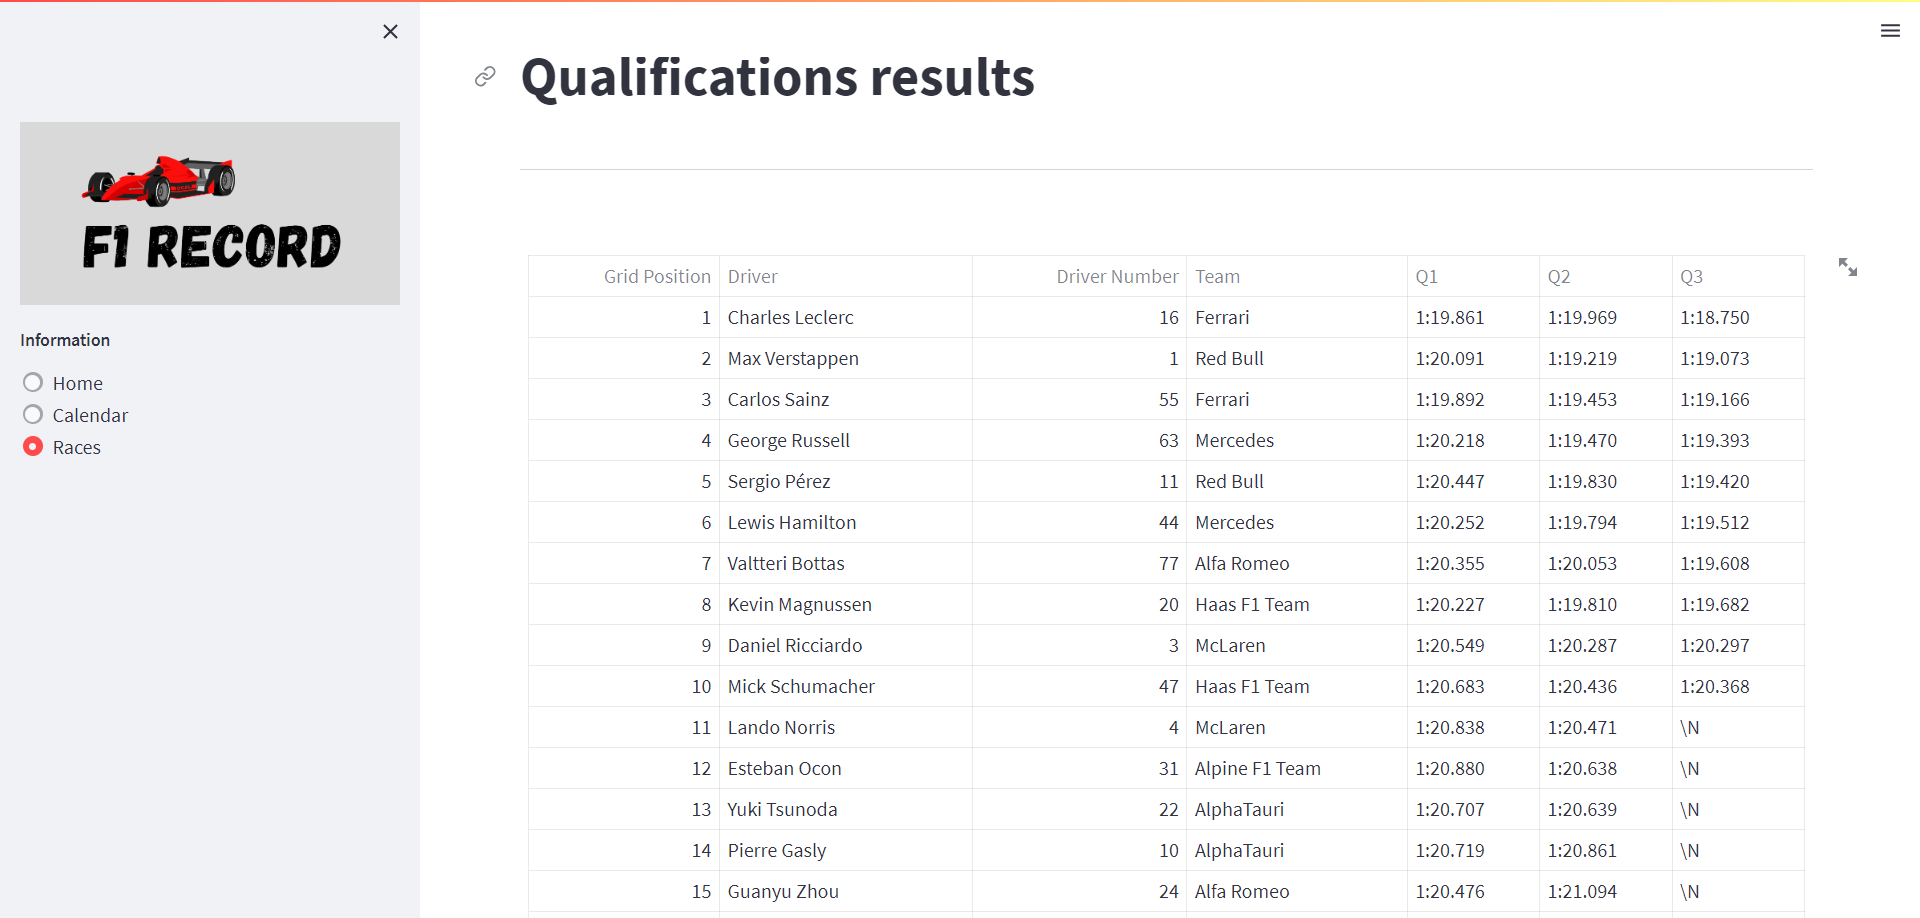
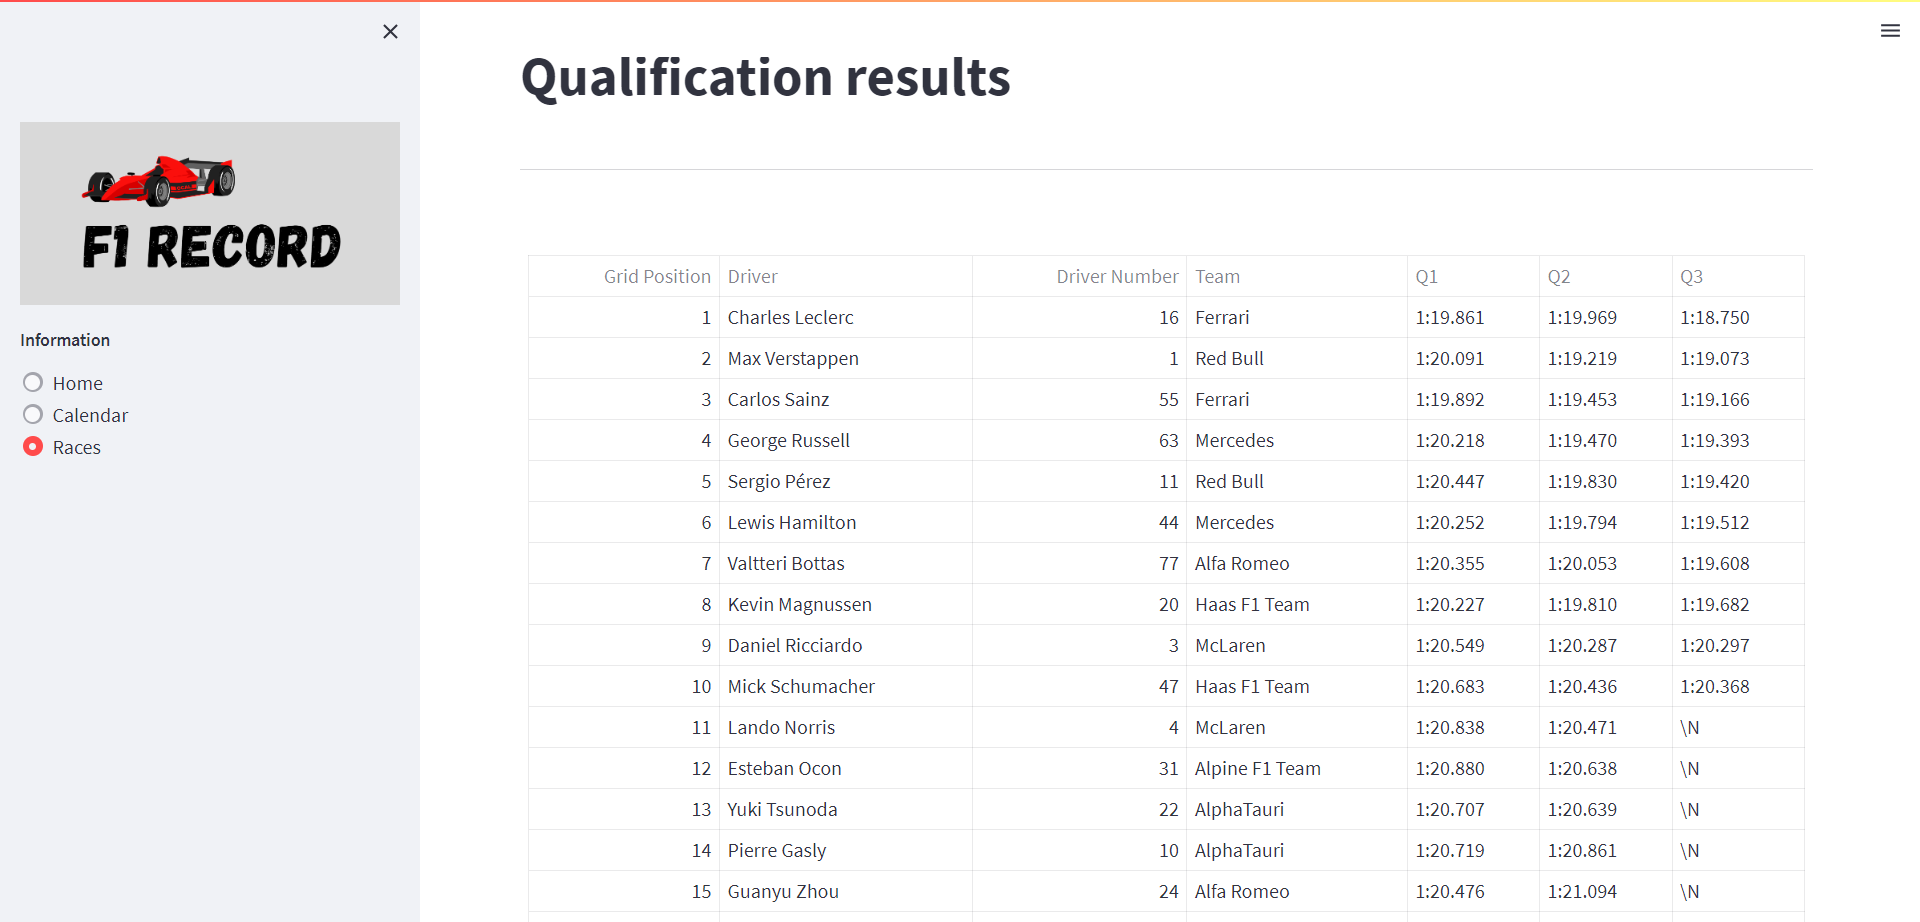
update

diff --git a/streamlit/main.py b/streamlit/main.py
@@ -99,7 +99,7 @@ def show_races():
 
         st.write('')
         st.write('---')
-        st.title('Qualifications results')
+        st.title('Qualification results')
         st.write('---')
         st.write('')
 

diff --git a/README.md b/README.md
@@ -13,6 +13,7 @@
 7. [Desarrollo de la Página Web](#página)
 8. [Modelo de Aprendizaje](#modelo)
 9. [Conclusiones](#conclusiones)
+10. [Enlaces](#enlaces)
 
 <a name="descripción"/>
 
@@ -223,7 +224,7 @@ Todas las consultas se realizan mediante SQLAlchemy y se limitan a mostrar los p
 
 El objetivo de nuestro EDA es representar gráfica y visualmente los datos que hemos descubierto mediante un análisis y representar y explicar cada uno de ellos. Nos encargaremos de visualizar la distribución de variables clave en nuestro conjunto de datos, examinar cómo han evolucionado ciertas métricas a lo largo de las temporadas de la Fórmula 1, investigar los desempeños de pilotos y equipos a lo largo del tiempo, realizar comparaciones entre diferentes pilotos o equipos y comparar diferentes épocas en la Fórmula 1.
 
-### Dashboard de EDA
+### Dashboard
 
 A continuación, observamos el siguiente dashboard que hemos realizado y las conclusiones a las que hemos llegado:
 
@@ -272,4 +273,62 @@ Tomamos como referencia el período de tiempo desde 1973 hasta 2022, ya que a pe
 <a name="página"/>
 
 ## Desarrollo de la Página Web
+
+Después de completar nuestros objetivos principales, es el momento de materializar todo el trabajo que hemos logrado hasta aquí de una manera más visual e interactiva. A pesar de no ser nuestro campo principal, nos disponemos a construir una página web con Streamlit con el objetivo principal de elaborar un archivo histórico de los datos que hemos obtenido de la historia de la Fórmula 1. Además, nos proponemos agregar dos secciones adicionales: una que contenga un calendario con información de las carreras que se disputaron y se disputarán en cada año de la Fórmula 1, y otra con información de cada Gran Premio disputado en la historia de la Fórmula 1.
+
+Como objetivo secundario, introduciremos un gráfico con el desempeño de carrera de cada Gran Premio, incluyendo pilotos que hayan finalizado o no la carrera, descalificaciones, amonestaciones, etc.
+
+### Página Web
+
+A continuación, observamos las siguientes imágenes de nuestra página web y de cada uno de los apartados explicados anteriormente:
+
+- En este apartado nos dedicamos a dar la bienvenida a nuestra página web y explicar la función de la misma.
+
+<details>
+<summary><b>Home</b></summary>
+<br>
+
+![Home](visualization/images/sl_home.png)
+
+</details>
+
+- En este apartado, podemos ver una barra de búsqueda desplegable con todos los años en los que se han disputado los campeonatos de la Fórmula 1. Al seleccionar algún año y pulsar en el botón 'Submit', se mostrará el calendario de carreras del año seleccionado con información acerca de cada uno de los circuitos disputados en ese año.
+
+<details>
+<summary><b>Calendar</b></summary>
+<br>
+
+![Calendar](visualization/images/sl_calendar1.png)
+
+</details>
+
+<details>
+<summary><b>Search</b></summary>
+<br>
+
+![Calendar](visualization/images/sl_calendar2.png)
+
+</details>
+
+- En este apartado, podemos ver dos barras de búsqueda desplegables. En la primera, podemos seleccionar la temporada que deseemos, y en la segunda, podemos seleccionar el Gran Premio que deseemos disponible según la temporada que hayamos seleccionado previamente. Al seleccionar el año y el circuito deseados y pulsar el botón 'Submit', se mostrará en primer lugar un encabezado con la información del circuito, el piloto que hizo la pole y el piloto que ganó el Gran Premio.
+
+A partir de ahí, tendremos tres secciones: la sección 'Qualification results', que contendrá información de todas las sesiones de clasificación disputadas en ese Gran Premio; la sección 'Race results', que contendrá la información de la carrera disputada en ese Gran Premio; y, por último, la sección 'Race evolution', que contendrá un gráfico con el desempeño de la carrera disputada en ese Gran Premio.
+
+<details>
+
+<details>
+<summary><b>Races</b></summary>
+<br>
+
+![Search](visualization/images/sl_races1.png)
+![Qualy](visualization/images/sl_races2.png)
+![Results](visualization/images/sl_races3.png)
+![Evolution](visualization/images/sl_races4.png)
+![Graph](visualization/images/sl_races5.png)
+
+</details>
+
+<a name="modelo"/>
+
+## Modelo de Aprendizaje
 
